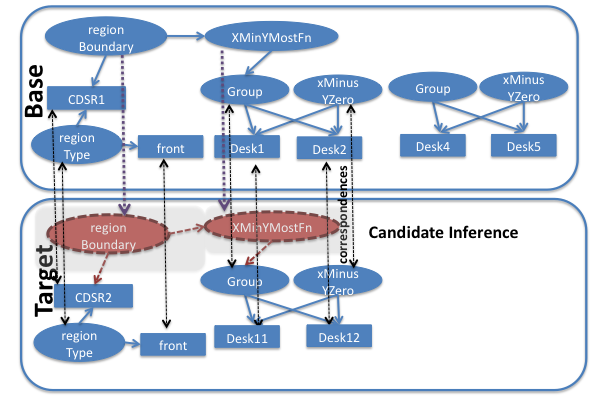
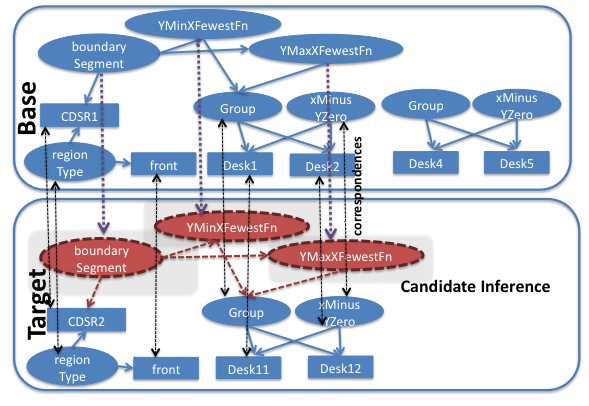
Kate: Added Langly ref, Redid Analogy Diagram.  Minor tweaking of conclusion

diff --git a/scenarios/cdsr/trunk/papers/AAAI2012/main-aaai12-cdsr.tex b/scenarios/cdsr/trunk/papers/AAAI2012/main-aaai12-cdsr.tex
@@ -70,9 +70,7 @@ Consider a janitorial robot cleaning a classroom. While performing this task, it
 
 The ability to understand and reason about \textit{spatial regions} is essential for cognitive systems performing tasks for humans in everyday environments. Some regions, such as whole rooms and corridors, are defined by clearly perceivable boundaries (e.g. walls and doors). However, many regions to which humans routinely refer are not so easily defined. Consider, for example, the aforementioned region \textit{the front of the classroom}. This region is not perceivable using just the geometry of the environment. Instead, it is defined by the objects present in the room (chairs, a desk, a whiteboard), their role in this context (seats for students to watch a teacher who writes on the whiteboard) and their configuration in space (the seats point toward the whiteboard). We refer to such regions as \textit{context-dependent spatial regions} (CDSRs). 
 
-Current cognitive systems are not capable of representing and reasoning about CDSRs, yet it is an important ability. If cognitive systems are to collaborate with humans in everyday environments then they must be able to understand and refer to the same spatial regions humans do. Many regions are best defined in a context-dependent manner, for example, a kitchen in a studio apartment, an aisle in a church or store, behind enemy lines in a military engagement, etc. In order to represent and reason about such regions, cognitive systems must integrate different types of information, including geometric, semantic, and functional knowledge. Creating systems able to integrate such a range of information is a key challenge in the cognitive systems paradigm.
-
-\from{klenk}{Cite recent Langley work}
+Current cognitive systems are not capable of representing and reasoning about CDSRs, yet it is an important ability. If cognitive systems are to collaborate with humans in everyday environments then they must be able to understand and refer to the same spatial regions humans do. Many regions are best defined in a context-dependent manner, for example, a kitchen in a studio apartment, an aisle in a church or store, behind enemy lines in a military engagement, etc. In order to represent and reason about such regions, cognitive systems must integrate different types of information, including geometric, semantic, and functional knowledge. Creating systems able to integrate such a range of information is a key challenge in the cognitive systems paradigm \cite{langley:inpress}.
 
 This paper presents an artificial cognitive system (specifically a mobile robot) able to represent and reason about CDSRs. Our approach is founded on two assumptions. The first assumption is that CDSRs can be defined using \emph{qualitative spatial representations} (QSRs) corresponding to sensor data of the system~\cite{Cohn:2001}. The second assumption is that semantically and geometrically similar areas (e.g. two different classrooms) will feature similar CDSRs, and that these similarities can be recognised through \emph{analogy}. The rest of the paper is structured following these assumptions. Section~\ref{sec:qsr-gen} describes how we generate QSRs from sensor data taken from an existing, state-of-the-art, cognitive system and use these to define CDSRs. Section~\ref{sec:analogy} then describes how we use the structure-mapping model of analogy \cite{Gentner1983a} to transfer a CDSR from a labelled example to a new situation. Section~\ref{sec:example} presents a worked example of the entire process, and Section~\ref{sec:evaluation} evaluates our system in comparison to data from human subjects performing the same task.
 
@@ -189,7 +187,7 @@ SME generates an analogy between the base and target cases enabling the transfer
 
 % robots and space
 
-Typical approaches to spatial representation for mobile robots tend to focus on localization, and thus mostly represent the world uniformly without subdivision into meaningful (semantic) units \cite{Thrun02a}. When a more structured representation is required, many turn to Kuipers' Spatial Semantic Hierarchy~\cite{Kuipers:2000}. This paper follows in this tradition, adding CDSRs to his qualitative topological representations. Whilst mobile robots exist which can determine the type of a room from the objects in it ~\cite{Hanheide/etal:2010a,Galindo/etal:2005a}, they only concern themselves with types of whole rooms, and cannot represent regions within rooms. This is also true for those systems which use some elements of QSR~\cite{aydemir2011icra}. The need for an autonomous system to ground references to human-generated descriptions of space has been recognised in domains where a robot must be instructed to perform a particular task, however existing systems are restricted to purely geometrically-defined regions~\cite{Tellex:2011,Dzifcak/etal:2009,brenneretal07ijcai}.
+Typical approaches to spatial representation for mobile robots tend to focus on localization, and thus mostly represent the world uniformly without subdivision into meaningful (semantic) units \cite{Thrun02a}. When a more structured representation is required, many turn to Kuipers' Spatial Semantic Hierarchy~\cite{Kuipers:2000}. This paper follows in this tradition, adding CDSRs to his qualitative topological representations. Whilst mobile robots exist which can determine the type of a room from the objects in it ~\cite{Hanheide/etal:2010a,Galindo/etal:2005a}, they only concern themselves with types of whole rooms, and cannot represent regions within rooms. This is also true for those systems which use some elements of QSR~\cite{aydemir2011icra}. The need for an autonomous system to ground references to human-generated descriptions of space has been recognized in domains where a robot must be instructed to perform a particular task, however existing systems are restricted to purely geometrically-defined regions~\cite{Tellex:2011,Dzifcak/etal:2009,brenneretal07ijcai}.
 
 
 There is mounting evidence that analogy, operating over structured qualitative representations, can be used to simulate a number of spatial reasoning tasks. Forbus \textit{et al.} showed that analogy between course of action diagrams could be used to identify potential ambush locations in new situations by focusing on only the relevant aspects of sketched battle plans \cite{Forbus/etal2003}. A core contribution of their work was the definition of a \textit{shared similarity constraint} between a spatial reasoning system and its user; where users and spatial reasoning systems agree on the similarities between situations. This has close parallels to what we are trying to accomplish, where a cognitive system is able to reason about context-dependent spatial regions by identifying the same salient features as its human user. The anchor points in our work were originally used in teaching a system how to solve problems from the Bennett Mechanical Comprehension Test that require spatial and conceptual reasoning. For example, identifying which wheelbarrow will be more difficult to lift based on the relative locations of its loads as depicted in a sketch \cite{Klenk/etal2005}. In that work, the anchor points defined the endpoints of lines. We go beyond that result to use anchor points to specify 2D regions.  
@@ -199,7 +197,7 @@ There is mounting evidence that analogy, operating over structured qualitative r
 
 \section{Conclusion}
 
-In this paper we presented an integrated cognitive system capable of representing and reasoning about context-dependent spatial regions. The system is able to use analogy to recognise CDSRs in previously unseen environments through a process of analogy with a manually annotated known room. The system demonstrates a successful integration of a range of technologies including vision, SLAM, qualitative spatial reasoning and analogy. In order to make this rich collection of components work together, our work takes a number of short-cuts that we plan to address with in future work. These include a reliance on the initial orientation of a room in a global coordinate frame, the lack of a mechanism to retrieve relevant rooms from memory (e.g. MAC/FAC \cite{forbus/etal1995}), and a lack of transfer post-processing (e.g. comparing the QSRs present in both base and transferred regions) to improve results. Despite these limitations our evaluation demonstrated that the system is able to match the CDSRs produced by trial subjects on unseen rooms to an acceptable degree \textbf{SOMENUMBER}.
+In this paper we presented an integrated cognitive system capable of representing and reasoning about context-dependent spatial regions. The system identifies CDSRs in previously unseen environments through analogy with a manually annotated known room. The system demonstrates a successful integration of a range of technologies including vision, SLAM, qualitative spatial reasoning and analogy. In order to make this rich collection of components work together, our work takes a number of short-cuts that we plan to address with future work. These include a reliance on the initial orientation of a room in a global coordinate frame, the lack of a mechanism to retrieve relevant rooms from memory (e.g. MAC/FAC \cite{forbus/etal1995}), and a lack of transfer post-processing (e.g. comparing the QSRs present in both base and transferred regions) to improve results. Despite these limitations our evaluation demonstrated that the system is able to match the CDSRs produced by trial subjects on unseen rooms to an acceptable degree \textbf{SOMENUMBER}.
 
 
 % \section{Acknowledgments}
